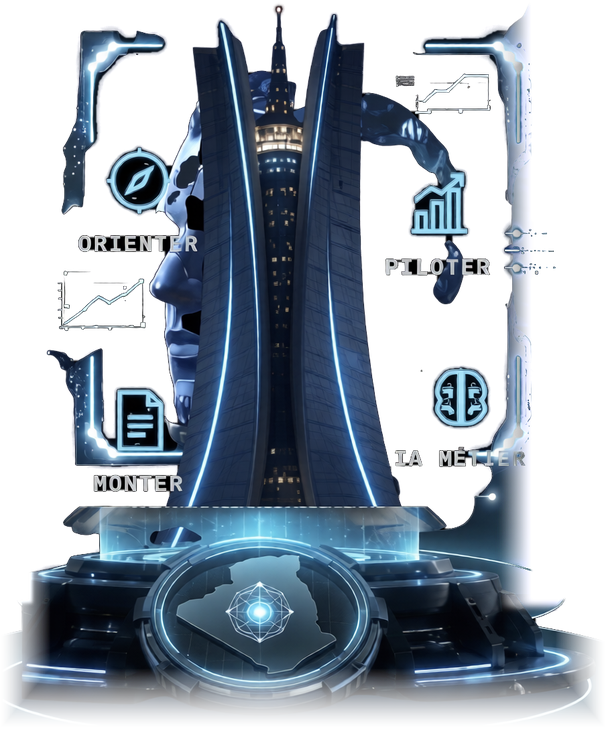
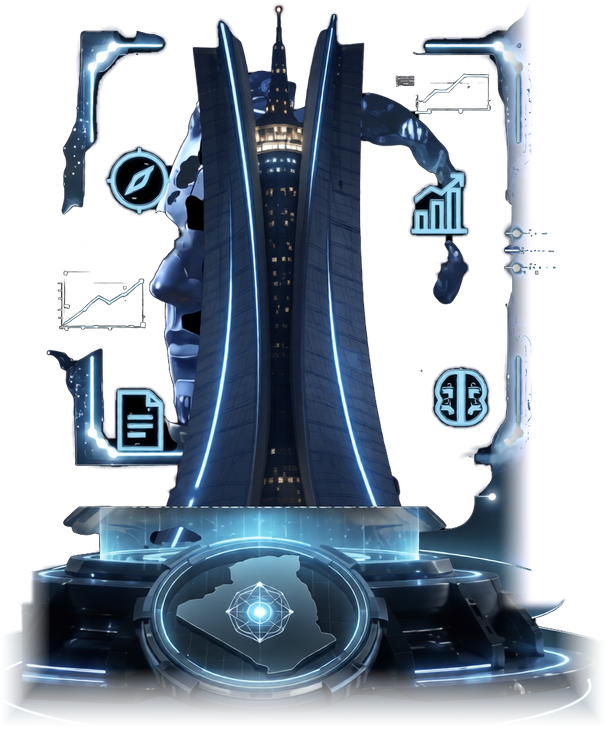
Accueil : socle animé, mots du dessin qui s'allument et s'éteignent, bouton et barre AIT descendus, sans étiquette Accueil
Claude-Session: https://claude.ai/code/session_0126m8eL45VDyXchLsk42uUZ

diff --git a/css/style.css b/css/style.css
@@ -45,7 +45,9 @@ button{font-family:inherit}
 .frame>*{pointer-events:auto}
 
 /* ---------- barre du bas : suit le doigt, position continue ---------- */
-.nav{position:absolute;left:0;right:0;bottom:var(--sb);height:calc(378*var(--u));z-index:40;touch-action:none;overflow:hidden;-webkit-user-select:none;user-select:none}
+.nav{position:absolute;left:0;right:0;bottom:var(--sb);height:calc(378*var(--u));z-index:40;touch-action:none;overflow:hidden;-webkit-user-select:none;user-select:none;pointer-events:none}
+.nav .navdrag{position:absolute;left:0;right:0;top:calc(62*var(--u));bottom:0;pointer-events:auto}
+.nav .chev,.nav .ic{pointer-events:auto}
 .cap{position:absolute;left:0;right:0;top:calc(4*var(--u));text-align:center;opacity:0;transition:opacity .35s;pointer-events:none}
 .cap.on{opacity:1;pointer-events:auto;cursor:pointer}
 .cap .t{font-size:calc(21*var(--u));letter-spacing:calc(4*var(--u));color:var(--ink);font-weight:300}
@@ -111,8 +113,27 @@ button{font-family:inherit}
 @keyframes float{50%{transform:translateY(calc(-8*var(--u)))}}
 .monument::after{content:"";position:absolute;left:20%;right:20%;bottom:2%;height:12%;background:radial-gradient(50% 50% at 50% 50%,rgba(57,195,255,.18),transparent);animation:breath 4s ease-in-out infinite}
 @keyframes breath{50%{opacity:.4}}
-.monument img{width:100%;height:100%;display:block}
-.ait{position:absolute;left:calc(153*var(--u));top:calc(1237*var(--u));width:calc(859*var(--u));height:calc(86*var(--u));border:calc(2*var(--u)) solid #8fc6dd;border-radius:calc(43*var(--u));
+.monument .base{width:100%;height:100%;display:block}
+/* socle animé : anneaux qui tournent, balayage de la carte, cœur qui respire, onde qui s'élargit */
+.socle{position:absolute;inset:0;width:100%;height:100%;overflow:visible;pointer-events:none}
+.socle .ring{fill:none;stroke:#7fdcff}
+.socle .r1{stroke-width:5;stroke-dasharray:18 22;opacity:.7;animation:sr1 10s linear infinite}
+.socle .r2{stroke-width:4;stroke-dasharray:6 14;opacity:.6;animation:sr2 7s linear infinite}
+.socle .r3{stroke-width:11;stroke:#e6f9ff;stroke-linecap:round;stroke-dasharray:70 930;opacity:.95;filter:drop-shadow(0 0 14px #39c3ff);animation:sr3 3.6s linear infinite}
+.socle .ripple{fill:none;stroke:#5fd4ff;stroke-width:6;transform-box:fill-box;transform-origin:center;animation:sripple 3.2s ease-out infinite}
+.socle .core{transform-box:fill-box;transform-origin:center;animation:score 2.6s ease-in-out infinite}
+.socle .scan{animation:sscan 4.2s ease-in-out infinite}
+@keyframes sr1{to{stroke-dashoffset:-400}}
+@keyframes sr2{to{stroke-dashoffset:200}}
+@keyframes sr3{to{stroke-dashoffset:-1000}}
+@keyframes sripple{0%{transform:scale(.25);opacity:.9}80%{opacity:.15}100%{transform:scale(1.18);opacity:0}}
+@keyframes score{0%,100%{transform:scale(.8);opacity:.55}50%{transform:scale(1.15);opacity:1}}
+@keyframes sscan{0%{transform:translateY(0);opacity:0}15%{opacity:1}85%{opacity:1}100%{transform:translateY(200px);opacity:0}}
+/* les quatre mots s'allument et s'éteignent l'un après l'autre */
+.mot{position:absolute;height:auto;display:block;opacity:.1;animation:neon 6s linear infinite}
+.mot.w2{animation-delay:1.5s}.mot.w3{animation-delay:3s}.mot.w4{animation-delay:4.5s}
+@keyframes neon{0%{opacity:.1}2%{opacity:1}3.5%{opacity:.25}5%{opacity:1}6.5%{opacity:.5}8%{opacity:1;filter:drop-shadow(0 0 4px rgba(150,220,255,.8))}40%{opacity:1;filter:drop-shadow(0 0 4px rgba(150,220,255,.8))}42%{opacity:.35}43.5%{opacity:.9}47%{opacity:.1;filter:none}100%{opacity:.1}}
+.ait{position:absolute;left:calc(153*var(--u));top:calc(1292*var(--u));width:calc(859*var(--u));height:calc(86*var(--u));border:calc(2*var(--u)) solid #8fc6dd;border-radius:calc(43*var(--u));
   background:rgba(4,14,24,.8);display:flex;align-items:center;box-shadow:0 0 calc(18*var(--u)) rgba(57,195,255,.25)}
 .ait .spark{width:calc(102*var(--u));display:flex;justify-content:center;border-right:calc(2*var(--u)) solid #5f7d8e;height:calc(40*var(--u));align-items:center}
 .ait .spark svg{width:calc(38*var(--u));height:calc(38*var(--u));fill:#9fdcf7}
@@ -120,13 +141,13 @@ button{font-family:inherit}
 .ait input::placeholder{color:#c9d3da;font-size:calc(25*var(--u))}
 .ait button{width:calc(90*var(--u));height:100%;background:none;border:0;cursor:pointer;display:flex;align-items:center;justify-content:center}
 .ait button svg{width:calc(30*var(--u));height:calc(40*var(--u));stroke:#e6eef4;fill:none;stroke-width:1.8}
-.aitmsg{position:absolute;left:calc(153*var(--u));width:calc(859*var(--u));top:calc(1330*var(--u));text-align:center;font-size:calc(14*var(--u));color:var(--blue);min-height:calc(18*var(--u))}
-.go{position:absolute;left:calc(513*var(--u));top:calc(1357*var(--u));width:calc(140*var(--u));height:calc(140*var(--u));border-radius:50%;border:calc(2*var(--u)) solid rgba(90,170,220,.35);background:radial-gradient(circle,rgba(20,50,90,.4),rgba(4,12,22,.6));cursor:pointer;padding:0;display:flex;align-items:center;justify-content:center}
+.aitmsg{position:absolute;left:calc(153*var(--u));width:calc(859*var(--u));top:calc(1385*var(--u));text-align:center;font-size:calc(14*var(--u));color:var(--blue);min-height:calc(18*var(--u))}
+.go{position:absolute;left:calc(513*var(--u));top:calc(1419*var(--u));width:calc(140*var(--u));height:calc(140*var(--u));border-radius:50%;border:calc(2*var(--u)) solid rgba(90,170,220,.35);background:radial-gradient(circle,rgba(20,50,90,.4),rgba(4,12,22,.6));cursor:pointer;padding:0;display:flex;align-items:center;justify-content:center}
 .go::before{content:"";position:absolute;inset:calc(8*var(--u));border-radius:50%;border:calc(1.5*var(--u)) solid rgba(90,170,220,.25)}
 .go i{width:calc(96*var(--u));height:calc(96*var(--u));border-radius:50%;background:radial-gradient(circle at 50% 40%,#3a74bd,#24508f 70%);border:calc(3*var(--u)) solid #5aa8e6;box-shadow:0 0 calc(22*var(--u)) rgba(57,160,255,.55);display:flex;align-items:center;justify-content:center;animation:breath2 3.2s ease-in-out infinite}
 @keyframes breath2{50%{box-shadow:0 0 calc(34*var(--u)) rgba(57,160,255,.8)}}
 .go svg{width:calc(32*var(--u));height:calc(32*var(--u));stroke:#e8f3fb;fill:none;stroke-width:2.6}
-.golab{position:absolute;left:0;right:0;top:calc(1492*var(--u));text-align:center;font-family:'PSS',sans-serif;font-size:calc(13*var(--u));letter-spacing:calc(5*var(--u));color:#8ec9e6;pointer-events:none}
+.golab{position:absolute;left:0;right:0;top:calc(1552*var(--u));text-align:center;font-family:'PSS',sans-serif;font-size:calc(13*var(--u));letter-spacing:calc(5*var(--u));color:#8ec9e6;pointer-events:none}
 
 /* répartition de la hauteur en plus (écrans hauts : iPhone 14 Pro Max…) */
 .slides,.monument,.dots,.sheet{margin-top:calc(var(--ex)*.28)}

diff --git a/js/site.js b/js/site.js
@@ -96,7 +96,7 @@
   var items = SECTIONS.map(function (s) { return { t: s.t, href: isHome ? (s.id === 'accueil' ? '#' : '#' + s.id) : s.href, s: s.s, n: s.n }; });
   var N = items.length, SLOT = 254, CX = 591;
   var ic = page === 'espace' || page === 'documentation' ? 0 : (isHome ? 1 : -1);
-  var hh = '<div class="cap"></div><div class="labs">';
+  var hh = '<div class="navdrag"></div><div class="cap"></div><div class="labs">';
   items.forEach(function (it, j) { hh += '<a class="lab" draggable="false" href="' + it.href + '" data-k="' + j + '">' + esc(it.t) + '</a>'; });
   hh += '<span class="arc"></span></div><div class="track"></div>';
   items.forEach(function (it, j) { hh += '<span class="star" data-k="' + j + '"></span>'; });
@@ -106,7 +106,7 @@
     '<a class="ic i1' + (ic === 1 ? ' on' : '') + '" href="' + (isHome ? '#services' : 'index.html#services') + '" aria-label="Nos solutions">' + I_CASE + '</a>' +
     '<a class="ic i2" href="' + PSS.wa('Bonjour Praetorian Sentinel Smart, ') + '" target="_blank" rel="noopener" aria-label="WhatsApp PSS">' + I_SCREEN + '</a>';
   nav.innerHTML = hh;
-  var labs = [].slice.call(nav.querySelectorAll('.lab')), stars = [].slice.call(nav.querySelectorAll('.star')), cap = nav.querySelector('.cap');
+  var labs = [].slice.call(nav.querySelectorAll('.lab')), stars = [].slice.call(nav.querySelectorAll('.star')), cap = nav.querySelector('.cap'), arc = nav.querySelector('.arc');
   var reduce = window.matchMedia && matchMedia('(prefers-reduced-motion: reduce)').matches;
 
   var pos = secIdx, anim = null, drag = null, listeners = [], settlers = [], showCap = false, capK = -1;
@@ -121,6 +121,7 @@
       var e = labs[j];
       var sc = mix(35 / 27, 1, t);
       var op = ad <= 1.15 ? 1 : clamp(1 - (ad - 1.15) * 2.2, 0, 1);
+      if (isHome && j === 0) op *= clamp(pos / 0.7, 0, 1);   /* sur l'accueil, pas d'étiquette « Accueil » */
       var c = Math.min(1, ad * 1.1);
       e.style.transform = 'translate3d(' + (d * SLOT * u).toFixed(2) + 'px,0,0) scale(' + sc.toFixed(3) + ')';
       e.style.opacity = op.toFixed(3);
@@ -130,6 +131,7 @@
       st.style.transform = 'translate3d(' + (d * SLOT * u).toFixed(2) + 'px,0,0)';
       st.style.opacity = (ad < 0.3 ? ad / 0.3 : (ad > 1.6 ? clamp(1 - (ad - 1.6) * 2.5, 0, 1) : 1)).toFixed(3);
     }
+    if (isHome) arc.style.opacity = clamp(pos / 0.7, 0, 1).toFixed(3);
     scout.style.transitionDuration = '0s';
     scout.style.left = 'calc(' + (915 - pos * 80).toFixed(1) + ' * var(--u))';
     var k = Math.round(pos), still = !drag && !anim && Math.abs(pos - k) < 0.01;

diff --git a/index.html b/index.html
@@ -50,7 +50,26 @@
      </div>
     </div>
    </div>
-   <div class="monument" aria-hidden="true"><img src="assets/dessin-accueil.png" alt=""></div>
+   <div class="monument" aria-hidden="true">
+    <img class="base" src="assets/dessin-accueil.png" alt="">
+    <svg class="socle" viewBox="0 0 904 1088" preserveAspectRatio="none">
+     <defs>
+      <radialGradient id="sg-core"><stop offset="0" stop-color="#eafaff"/><stop offset=".35" stop-color="#5fd4ff" stop-opacity=".75"/><stop offset="1" stop-color="#39c3ff" stop-opacity="0"/></radialGradient>
+      <linearGradient id="sg-scan" x1="0" y1="0" x2="0" y2="1"><stop offset="0" stop-color="#5fd4ff" stop-opacity="0"/><stop offset=".5" stop-color="#9be6ff" stop-opacity=".55"/><stop offset="1" stop-color="#5fd4ff" stop-opacity="0"/></linearGradient>
+      <clipPath id="sg-disk"><ellipse cx="387" cy="917" rx="150" ry="86"/></clipPath>
+     </defs>
+     <g clip-path="url(#sg-disk)"><rect class="scan" x="230" y="800" width="320" height="34" fill="url(#sg-scan)"/></g>
+     <ellipse class="ring r1" cx="387" cy="917" rx="178" ry="102" pathLength="1000"/>
+     <ellipse class="ring r2" cx="387" cy="917" rx="138" ry="78" pathLength="1000"/>
+     <ellipse class="ring r3" cx="387" cy="917" rx="163" ry="93" pathLength="1000"/>
+     <ellipse class="ripple" cx="387" cy="917" rx="163" ry="93"/>
+     <circle class="core" cx="387" cy="913" r="58" fill="url(#sg-core)"/>
+    </svg>
+    <img class="mot w1" src="assets/mot-orienter.png" alt="" style="left:12.168%;top:31.526%;width:21.018%">
+    <img class="mot w2" src="assets/mot-piloter.png" alt="" style="left:62.832%;top:35.018%;width:18.695%">
+    <img class="mot w3" src="assets/mot-metier.png" alt="" style="left:64.381%;top:60.662%;width:23.23%">
+    <img class="mot w4" src="assets/mot-monter.png" alt="" style="left:14.712%;top:64.614%;width:17.588%">
+   </div>
    <div class="dots" id="dots"><button class="on" aria-label="Diapositive 1"></button><button aria-label="Diapositive 2"></button><button aria-label="Diapositive 3"></button><span id="dotn">01 / 03</span></div>
    <form class="ait" id="ait">
     <div class="spark"><svg viewBox="0 0 24 24"><path d="M10 3l1.6 4.9L16.5 9.5l-4.9 1.6L10 16l-1.6-4.9L3.5 9.5l4.9-1.6zM18 13l.8 2.2 2.2.8-2.2.8L18 19l-.8-2.2-2.2-.8 2.2-.8z"/></svg></div>
